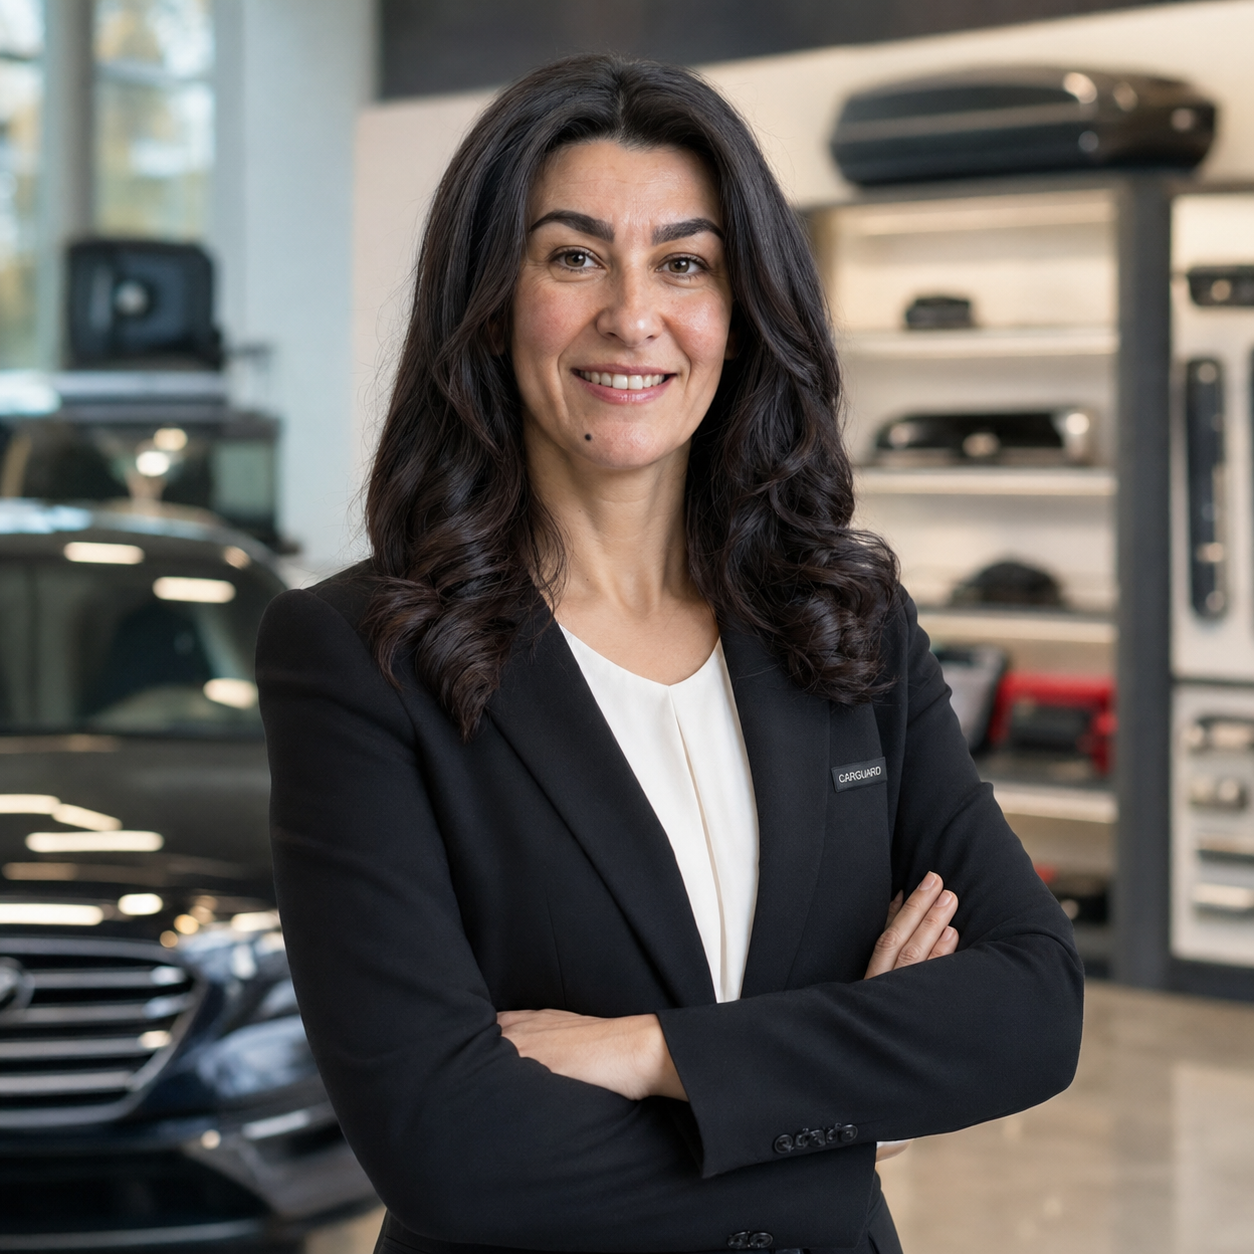
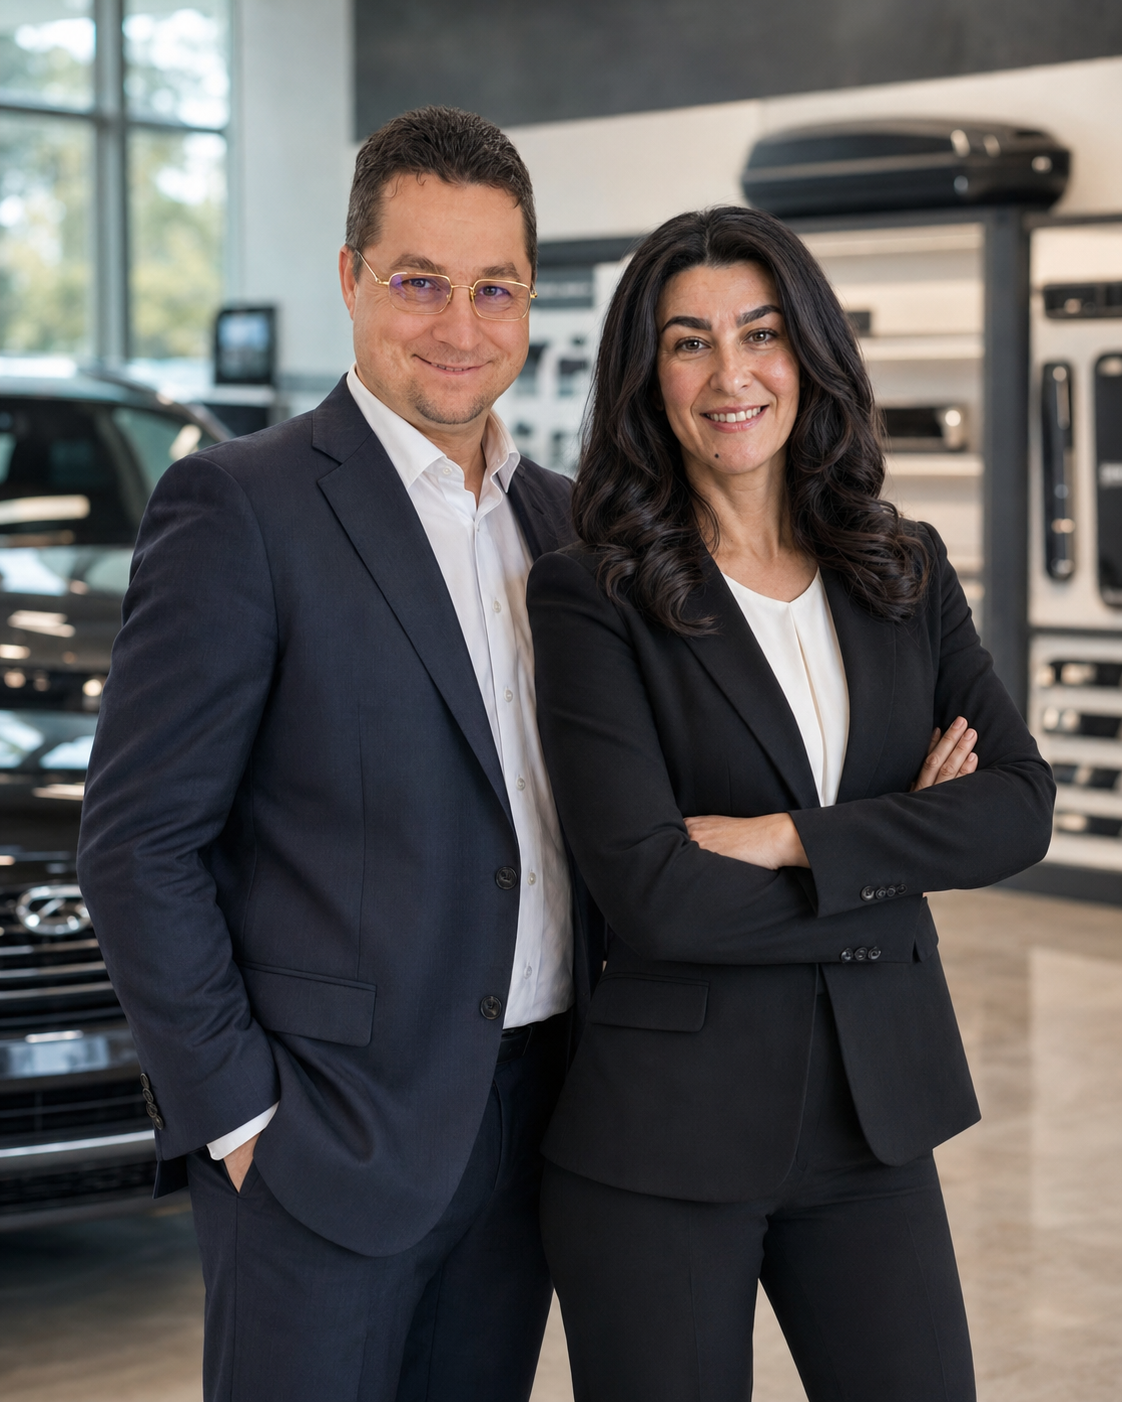
Replace hero portrait with couple photo, update name caption
Swaps the solo portrait for a photo of both founders (Józsi + Hajni),
keeping the "direct from brand owner" tagline and updating the name
caption to reflect both.

diff --git a/index.html b/index.html
@@ -130,7 +130,7 @@ fbq("init","1473493377690750");fbq("track","PageView");
     <p class="lead">Autós boltod vagy szervized, esetleg forgalmazó céged van, és olyan árut szeretnél, ami <b>mozog</b>? Legyél a CARGUARD® partnere.</p>
     <span id="inscriere"></span><form id="leadform" class="leadform" action="https://formspree.io/f/xnjkzngr" method="POST" style="margin-top:14px;text-align:left;max-width:440px"><div style="margin-bottom:8px"><input name="Adoszam" placeholder="Közösségi adószám (pl. HU12345678) *" required style="margin-bottom:4px"><div style="display:flex;align-items:center;gap:8px;margin-top:2px"><button type="button" class="vatcheck-btn" style="background:#1c1c20;border:1px solid var(--line);color:var(--tx);padding:7px 12px;border-radius:8px;font-size:12.5px;cursor:pointer">Adószám ellenőrzése</button><span class="vatstatus" style="font-size:12px;color:var(--mut)"></span></div></div><div class="frow"><input name="Nev" placeholder="Név *" required><input name="Ceg" placeholder="Cég *" required></div><div class="frow" style="margin-top:8px"><input name="Telefon" type="tel" placeholder="Telefon *" required><input name="Cim" placeholder="Cím / székhely"></div><input name="Email" type="email" placeholder="Email cím *" required style="margin-top:8px"><input type="hidden" name="_subject" value="Lead B2B Ungaria (landing)"><input type="hidden" name="_cc" value="iosif.budai@globiz.ro"><label style="display:flex;gap:8px;align-items:flex-start;font-size:11px;color:var(--mut);margin:8px 0 12px;line-height:1.4"><input type="checkbox" name="Hozzajarulas_GDPR" value="Igen" required style="width:auto;margin-top:3px;flex:0 0 auto"><span>Hozzájárulok, hogy a CARGUARD® kapcsolatba lépjen velem (telefon, email, WhatsApp) a B2B együttműködésről. <a href="https://carguard.hu/gdpr" target="_blank" rel="noopener" style="color:var(--red2);text-decoration:underline">Adatvédelem</a></span></label><button type="submit" class="btn" style="width:100%;border:0;cursor:pointer;font-size:16px">Küldd el az adataidat &rarr;</button><div class="reassure">&#10003; Ingyenes &middot; 2 perc &middot; 24 órán belül visszahívunk</div></form><div id="leadok" class="leadok" style="display:none;padding:14px 0"><div style="font-size:38px">&#9989;</div><h3 style="font-size:20px;margin:6px 0">Köszönjük!</h3><p class="lead">Megkaptuk az adataidat. Emailben elküldtük a katalógust az árainkkal — <b>nézd meg a bejövő leveleid között, és a spam/levélszemét mappát is</b>. Hamarosan felvesszük veled a kapcsolatot.</p></div>
   </div>
-  <div class="portrait"><img src="assets/logo.png" alt="CARGUARD®" style="position:absolute;top:16px;left:16px;height:26px;width:auto;filter:drop-shadow(0 2px 5px rgba(0,0,0,.95));z-index:3"><img src="assets/hajni.jpg" alt="CARGUARD® - a partnered"><div class="tag"><small>CARGUARD®</small>BUDAI HAJNAL<span style="display:block;font-weight:600;font-size:13px;color:var(--mut);margin-top:3px">Egyenesen a márka tulajdonostól</span></div></div>
+  <div class="portrait"><img src="assets/logo.png" alt="CARGUARD®" style="position:absolute;top:16px;left:16px;height:26px;width:auto;filter:drop-shadow(0 2px 5px rgba(0,0,0,.95));z-index:3"><img src="assets/hajni.jpg" alt="CARGUARD® - a partnered"><div class="tag"><small>CARGUARD®</small>BUDAI JÓZSEF ÉS HAJNAL<span style="display:block;font-weight:600;font-size:13px;color:var(--mut);margin-top:3px">Egyenesen a márka tulajdonostól</span></div></div>
 </div></section>
 
 <section><div class="wrap">
